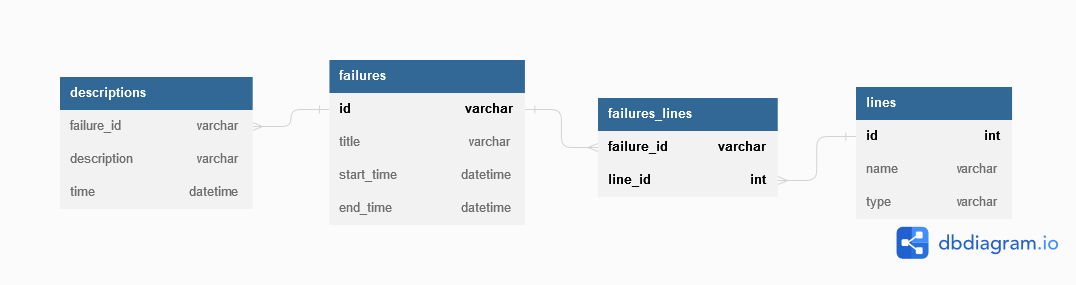
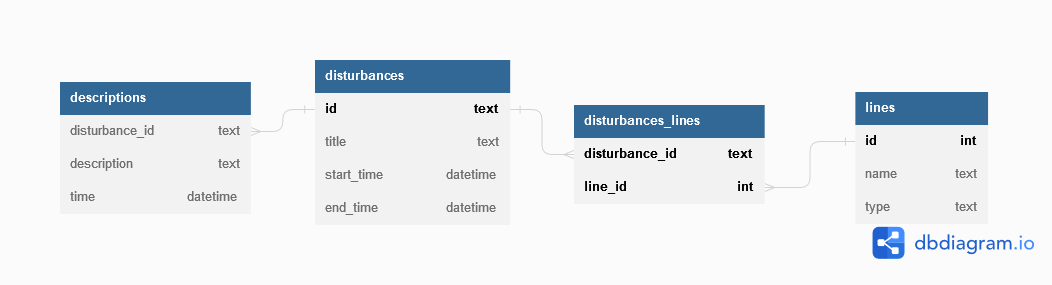
Datenbank Scheme erstellt&Dokumentation angepasst

diff --git a/dokumentation.md b/dokumentation.md
@@ -25,30 +25,28 @@ Das Frontend ist eine VueJS-Website, welche die Daten aus der Rest-API ausliest 
 
 Die SQLite3-Datenbank hat folgenden Aufbau:
 
-![datenbankstruktur](.\datenbankstruktur.png)
+![datenbankstruktur](./datenbankstruktur.png)
 
-- Tabelle `failures`: Hier sind alle Störungen gespeichert
+- Tabelle `disturbances`: Hier sind alle Störungen gespeichert
 
   - `id` wird aus der API übernommen, um die Störungen bei Aktualisierung mit dem Wiener Linien Server wieder eindeutig identifizieren zu können
   - `title` ist der Titel der Störung
   - `start_time` ist der Zeitpunkt, an dem die Störung begonnen hat
   - `end_time` ist der Zeitpunkt, an dem die Störung komplett behoben ist - wird ausgefüllt, sobald die Störung am Wiener Linien Server gelöscht ist
-
 - Tabelle `descriptions`: Hier sind alle Beschreibungen der Störungen gespeichert. Da sich die Beschreibung einer Störung im Laufe der Zeit ändert, werden manchmal mehrere Beschreibungen zu einer Störung gespeichert (z. B. von kein Betrieb zu Verspätungen)
 
-  - `failure_id` ist die `id` der Zugehörigen Störung
+  - `disturbance_id` ist die `id` der zugehörigen Störung
   - `description` ist die Beschreibung
   - `time` ist der Zeitpunkt, an dem die Beschreibung aktuell gültig war
-
 - Tabelle `lines`: Hier werden betroffene Linien gespeichert
 
   - `id` ist eine eindeutige Identifikation für die Linie
   - `name` ist der Name (Nummer) der Linie (z.B. 31, 32A, U6, ...)
   - `type` ist der Typ der Linie (`ptBusCity` = Bus, `ptTram` = Straßenbahn, `ptMetro` = U-Bahn)
+- Tabelle `disturbances_lines`: Hier werden die Linien zu den Störungen gespeichert (um many-many Beziehung zu ermöglichen)
 
-- Tabelle `failures_lines`: Hier werden die Linien zu den Störungen gespeichert (um many-many Beziehung zu ermöglichen)
-
-  - `failure_id` ist die `id` der Störung
+  - `disturbances_id` ist die `id` der Störung
   - `line_id` ist die `id` der Linie
 
-  
+
+Die Datenbank wird über das Create-Script `backend/scheme.sql` erstellt.
